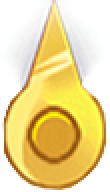
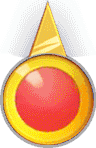
update

diff --git a/src/parts/LuckyWheelPopup/Wheel/index.js b/src/parts/LuckyWheelPopup/Wheel/index.js
@@ -1,7 +1,8 @@
 import React, { useState, forwardRef, useImperativeHandle } from "react";
 import styles from "./wheel.module.scss";
-import LuckyWheelBackground from "../../../assets/imgs/bg_lucky_wheel.png";
 import WheelNeedle from "../../../assets/imgs/wheel_needle.png";
+import BackgroundLuckyWheelBottomLayer from "../../../assets/imgs/bg_lucky_wheel_1.png";
+import BackgroundLuckyWheelRotatableLayer from "../../../assets/imgs/bg_lucky_wheel_2.png";
 import Converter from "../../../utils/converter";
 import CoinIcon from "../../../assets/imgs/img_one_coin.png";
 
@@ -64,16 +65,23 @@ const Wheel = forwardRef(
 
         return (
             <div className={styles.container}>
+                <img 
+                    src={BackgroundLuckyWheelBottomLayer} 
+                    className={styles.backgroundLayer1}
+                    draggable={false}
+                />
                 <img
                     src={WheelNeedle}
-                    className={styles.wheelNeedle} />
+                    className={styles.wheelNeedle}
+                    draggable={false} 
+                />
                 <div
                     style={{
                         "--seg": wheelContent.length
                     }}
                     className={styles.wheel}
                 >
-                    <img src={LuckyWheelBackground} draggable="false" />
+                    <img src={BackgroundLuckyWheelRotatableLayer} draggable="false" />
                     {
                         wheelContent.map((amount, i) => (
                             <div

diff --git a/src/parts/LuckyWheelPopup/Wheel/wheel.module.scss b/src/parts/LuckyWheelPopup/Wheel/wheel.module.scss
@@ -11,19 +11,26 @@ $wheelCellContentHeight: 3vh;
 
 .wheelNeedle {
     position: absolute;
-    width: 9%;
-    margin-bottom: 15%;
-    z-index: 10;
-    cursor: pointer;
+    width: 15%;
+    margin-bottom: 12.5%;
+    z-index: 2;
     user-select: none;
+}
+
+.backgroundLayer1 {
+    position: absolute;
+    width: 100%;
+    height: 100%;
 }
 
 .wheel {
     position: absolute;
-    top: 0;
+    top: 7.02%;
     left: 0;
-    width: 100%;
-    height: 100%;
+    right: 0.2%;
+    margin: auto;
+    width: 82%;
+    height: 82%;
     border-radius: 50%;
     overflow: hidden;
     rotate: calc((360 / var(--seg)) * 1deg);
@@ -56,11 +63,11 @@ $wheelCellContentHeight: 3vh;
         height: $wheelCellContentHeight;
         transform-origin: bottom right;
         transform: rotate(calc((360 / var(--seg)) * 1deg)) translateY(calc($wheelCellContentHeight / 2));
-        font-size: 1.3rem;
+        font-size: 1.5rem;
         font-weight: 900;
         color: #ffd700;
-        margin-bottom: 22%;
-        margin-right: 22%;
+        margin-bottom: 30%;
+        margin-right: 30%;
         -webkit-text-stroke: 1px rgba(0, 0, 0, 0.5);
         text-shadow: 3px 5px 2px rgba($color: #000000, $alpha: 0.15);
         display: flex;
@@ -69,9 +76,9 @@ $wheelCellContentHeight: 3vh;
         gap: 8px;
 
         img {
-                position: relative;
-                height: 100%;
-                margin-bottom: 2px;
-            }
+            position: relative;
+            height: 100%;
+            margin-bottom: 2px;
+        }
     }
 }
